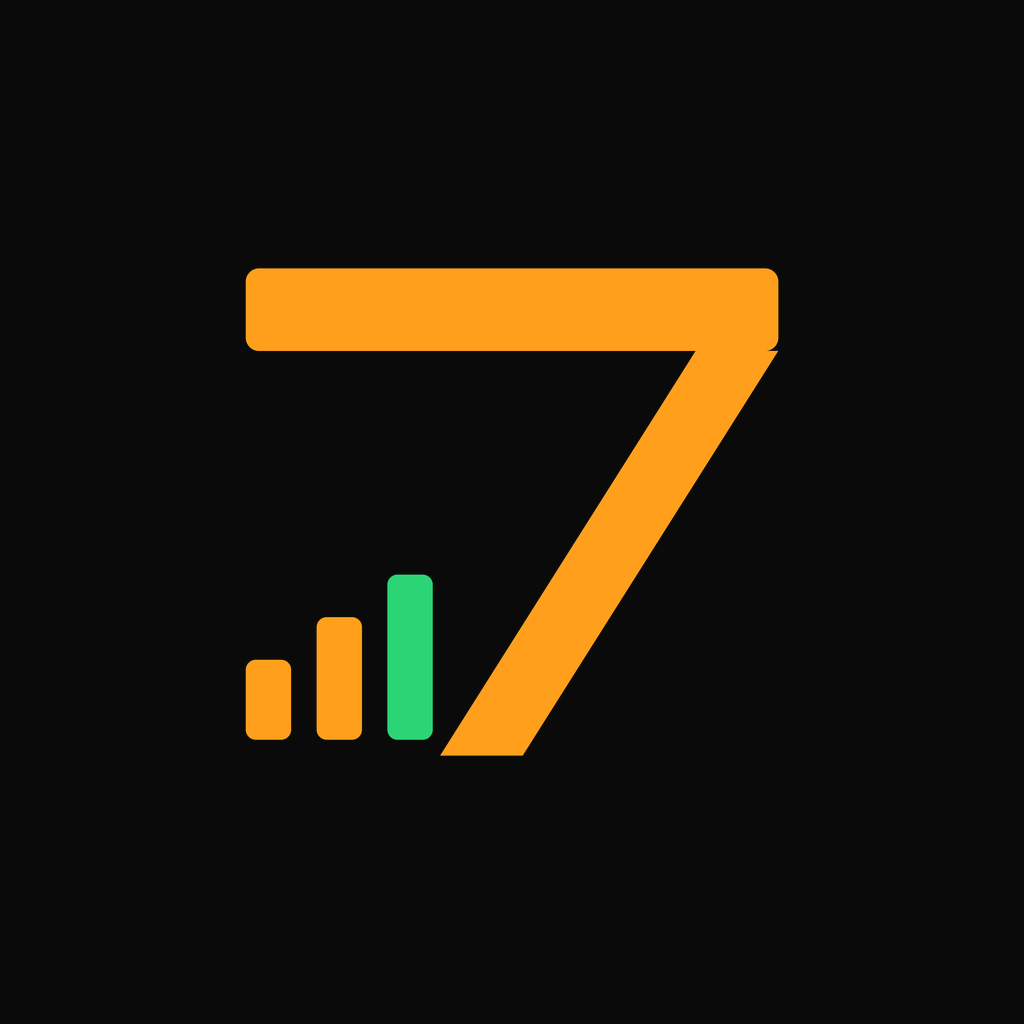
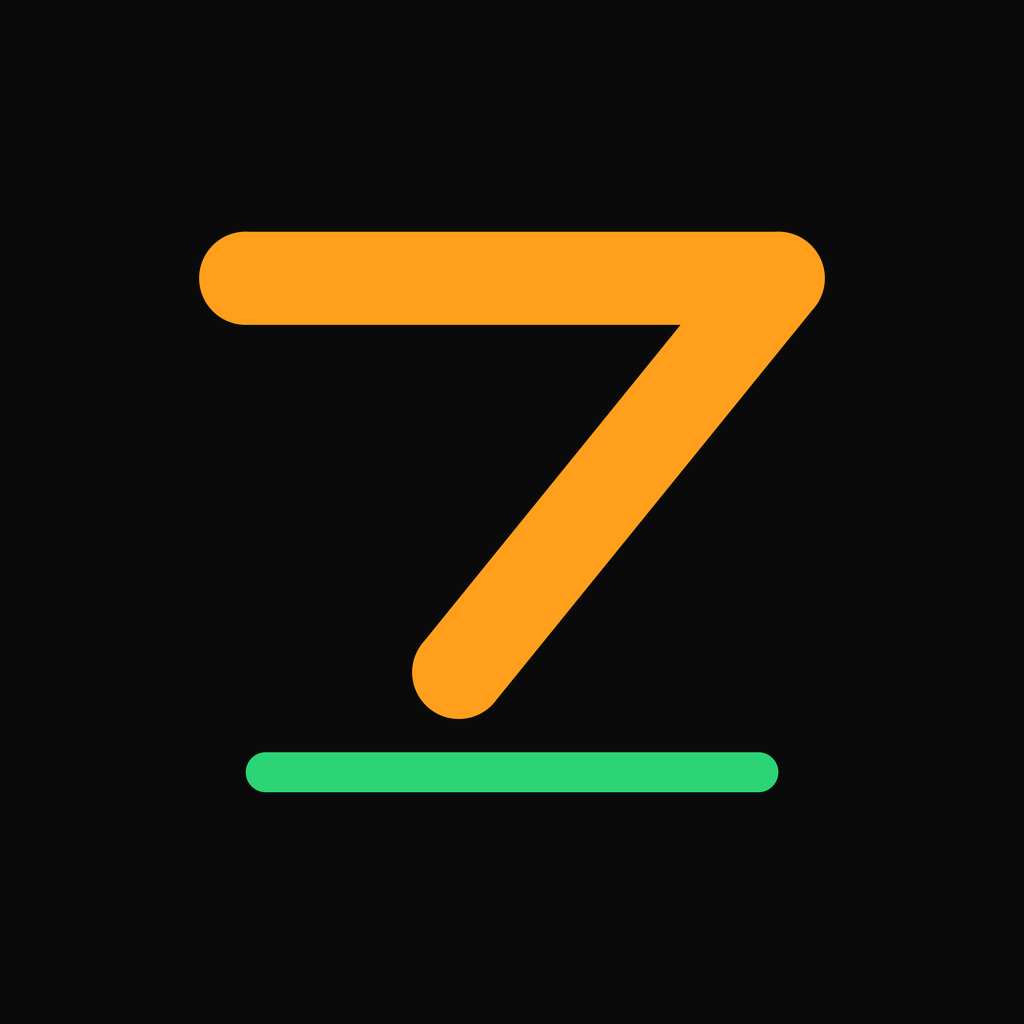
fix(sparkline): colour a cumulative curve against zero, not its first point
Reported: the hero showed a green net P&L, a win rate above 50% and a
positive expectancy, with a red sparkline underneath.

The colour came from 'last - first'. On a cumulative P&L curve the first
point is already the result of trade one, so a book whose best trade
came first reads as declining while its total is firmly positive:
+100, -10, +20, -15 gives the curve [100, 90, 110, 95] -- up 95 overall,
but -5 against its own first point.

Added an explicit 'baseline' prop and passed 0 at the three call sites
that plot cumulative P&L (dashboard hero, weekly review, playbook edge).
Metric's trend sparkline keeps the first-point default: a running win
rate climbing 40%->55% is an improvement, and zero means nothing there.

Also, two things you flagged:

- Settings said 'Unavailable in Expo Go - requires a development build'.
  That is our packaging problem described in our vocabulary. Replaced
  with what it means to you: reminders arrive in the next release.

- New app mark. Two earlier attempts both put a second picture beside
  the numeral; at launcher size the ascending bars stopped reading as
  bars and the icon looked like a wifi glyph next to a 7. This one adds
  nothing: the seven is one round-capped stroke, and the only other
  element is a green rule beneath it -- the axis it stands on, so the
  figure reads as a value on a chart. It never touches the glyph, so
  nothing can collide, and it still reads at 24px. SevenMark.tsx and
[…]

Changed region(s): [[0.1875, 0.2188, 0.8125, 0.7812], [0.7188, 0.375, 0.75, 0.4062]]

diff --git a/src/components/brand/SevenMark.tsx b/src/components/brand/SevenMark.tsx
@@ -24,9 +24,11 @@ interface SevenMarkProps {
  * colours, it needs a separate file per density, it blurs when a screen wants
  * it larger than it was exported, and it cannot be animated per-element.
  *
- * The shapes here are the same ones make_icons.py draws, expressed on a 100x100
- * viewBox: a heavy 7, and three rising bars sitting in the empty triangle the
- * numeral creates. Nothing overlaps, so the silhouette still reads at 16px.
+ * Same geometry as make_icons.py's draw_mark(), on a 100x100 viewBox: a heavy
+ * seven drawn as one round-capped stroke, standing on a green baseline. The
+ * rule is the axis the figure stands on, which is what makes the numeral read
+ * as a value on a chart instead of a digit with an ornament — and, unlike the
+ * ascending bars it replaces, it never collides with the glyph at small sizes.
  */
 export const SevenMark: React.FC<SevenMarkProps> = ({
   size = 40,
@@ -38,23 +40,20 @@ export const SevenMark: React.FC<SevenMarkProps> = ({
 }) => {
   const { theme } = useTheme();
   const ink = color ?? theme.colors.primary;
-  const tip = monochrome ? ink : (accent ?? theme.colors.green);
+  const rule = monochrome ? ink : (accent ?? theme.colors.green);
   const plateBg = plateColor ?? theme.colors.card;
 
-  // Geometry, in viewBox units. Mirrors draw_mark(): inset 0.22 of the box,
-  // stroke 0.155 of the inner width.
-  const m = 14;
-  const w = 72;
-  const stroke = w * 0.155;
-  const barY = m + w * 0.085;
-  const topX = m + w;
-  const botX = m + w * 0.52;
-  const botY = m + w;
+  // Geometry in viewBox units, mirroring draw_mark() at inset 0.22.
+  const m = 22;
+  const w = 100 - m * 2;
+  const stroke = w * 0.175;
 
-  const barW = w * 0.085;
-  const gap = w * 0.048;
-  const baseY = m + w * 0.97;
-  const heights = [w * 0.15, w * 0.23, w * 0.31];
+  const yTop = m + w * 0.04;
+  const xFoot = m + w * 0.4;
+  const yFoot = m + w * 0.78;
+
+  const baseH = w * 0.075;
+  const baseY = m + w * 0.93;
 
   return (
     <Svg width={size} height={size} viewBox="0 0 100 100">
@@ -68,32 +67,24 @@ export const SevenMark: React.FC<SevenMarkProps> = ({
       {plate ? <Rect x="0" y="0" width="100" height="100" rx="22" fill={plateBg} /> : null}
 
       <G>
-        {/* Top bar of the 7 */}
+        {/* The seven: one continuous stroke, round joins, no seams. */}
+        <Path
+          d={`M ${m} ${yTop} L ${m + w} ${yTop} L ${xFoot} ${yFoot}`}
+          stroke="url(#sevenInk)"
+          strokeWidth={stroke}
+          strokeLinecap="round"
+          strokeLinejoin="round"
+          fill="none"
+        />
+        {/* The baseline it stands on. */}
         <Rect
           x={m}
-          y={barY}
+          y={baseY}
           width={w}
-          height={stroke}
-          rx={stroke * 0.16}
-          fill="url(#sevenInk)"
+          height={baseH}
+          rx={baseH / 2}
+          fill={rule}
         />
-        {/* Diagonal leg, as a quad so its junction with the bar stays crisp */}
-        <Path
-          d={`M ${topX - stroke} ${barY + stroke} L ${topX} ${barY + stroke} L ${botX} ${botY} L ${botX - stroke} ${botY} Z`}
-          fill="url(#sevenInk)"
-        />
-        {/* Ascending bars — the journal's own subject, in the numeral's counter */}
-        {heights.map((h, i) => (
-          <Rect
-            key={i}
-            x={m + i * (barW + gap)}
-            y={baseY - h}
-            width={barW}
-            height={h}
-            rx={barW * 0.22}
-            fill={i === heights.length - 1 ? tip : ink}
-          />
-        ))}
       </G>
     </Svg>
   );

diff --git a/src/components/ui/__tests__/sparklineBaseline.test.ts b/src/components/ui/__tests__/sparklineBaseline.test.ts
@@ -1,0 +1,76 @@
+/**
+ * The rule the Sparkline uses to pick green or red.
+ *
+ * Reported bug: the dashboard hero showed a green net P&L, a win rate above
+ * 50% and a positive expectancy, yet its sparkline was red.
+ *
+ * Cause: the colour came from `last - first`. On a cumulative P&L curve the
+ * first point is already the result of trade one, so a book whose best trade
+ * came first reads as "declining" even while its total is firmly positive.
+ * A cumulative curve has to be judged against zero, not against itself.
+ */
+
+/** Mirrors the expression in Sparkline.tsx. */
+function sparklineNet(data: number[], baseline?: number): number {
+  return data.length ? data[data.length - 1] - (baseline ?? data[0]) : 0;
+}
+
+const isGreen = (data: number[], baseline?: number) => sparklineNet(data, baseline) >= 0;
+
+describe('sparkline colour — cumulative curves (baseline 0)', () => {
+  it('is green for the reported case: profitable book whose first trade was the biggest win', () => {
+    // Trades +100, -10, +20, -15 -> total +95, win rate 50%, expectancy
+    // +23.75/trade. The curve peaks at its first point and ends below it.
+    const equity = [100, 90, 110, 95];
+    expect(isGreen(equity)).toBe(false); // the bug
+    expect(isGreen(equity, 0)).toBe(true); // the fix
+  });
+
+  it('is green whenever the cumulative total is positive', () => {
+    expect(isGreen([50, 30, 130], 0)).toBe(true);
+    expect(isGreen([10], 0)).toBe(true);
+    expect(isGreen([200, 150, 20], 0)).toBe(true);
+  });
+
+  it('is red whenever the cumulative total is negative', () => {
+    expect(isGreen([-10, -50, -30], 0)).toBe(false);
+    expect(isGreen([100, 50, -20], 0)).toBe(false);
+  });
+
+  it('treats an exactly flat book as green rather than a loss', () => {
+    expect(isGreen([0], 0)).toBe(true);
+    expect(isGreen([50, -20, 0], 0)).toBe(true);
+  });
+
+  it('ignores the shape of the curve and only reads its end', () => {
+    // Deep drawdown mid-run, recovered: still a winning book.
+    expect(isGreen([100, -200, 40], 0)).toBe(true);
+    // Strong start given entirely back: still a losing book.
+    expect(isGreen([300, 100, -5], 0)).toBe(false);
+  });
+});
+
+describe('sparkline colour — level series keep the first-point default', () => {
+  it('reads a rising series as green', () => {
+    // A running win rate climbing 40% -> 55% is an improvement, even though
+    // both points are positive numbers. Zero would be meaningless here.
+    expect(isGreen([40, 48, 55])).toBe(true);
+  });
+
+  it('reads a falling series as red even when every value is positive', () => {
+    expect(isGreen([70, 62, 55])).toBe(false);
+  });
+});
+
+describe('sparkline colour — edge cases', () => {
+  it('is green for an empty series rather than alarming', () => {
+    expect(isGreen([], 0)).toBe(true);
+    expect(isGreen([])).toBe(true);
+  });
+
+  it('accepts a non-zero baseline, e.g. a starting balance', () => {
+    const balance = [10_200, 10_050, 10_400];
+    expect(isGreen(balance, 10_000)).toBe(true);
+    expect(isGreen(balance, 10_500)).toBe(false);
+  });
+});

diff --git a/src/components/ui/Sparkline.tsx b/src/components/ui/Sparkline.tsx
@@ -17,6 +17,19 @@ interface SparklineProps {
   height?: number;
   /** Colour override; defaults to green/red based on net direction. */
   color?: string;
+  /**
+   * Value the series is judged against when picking green or red.
+   *
+   * Defaults to the first data point, which is right for a series of levels
+   * (a balance, a running win rate): "up from where it started".
+   *
+   * It is WRONG for a cumulative P&L curve, whose first point is already the
+   * result of trade one. A book that won 100 then gave back 5 starts at 100
+   * and ends at 105 -- up 105 overall, but only +5 against its own first
+   * point, and outright red if trade one was the best of the run. Pass 0 for
+   * those so the colour matches the total the user is reading next to it.
+   */
+  baseline?: number;
   /** Fill the area under the line. */
   filled?: boolean;
   strokeWidth?: number;
@@ -34,13 +47,16 @@ export const Sparkline: React.FC<SparklineProps> = ({
   width = 72,
   height = 24,
   color,
+  baseline,
   filled = true,
   strokeWidth = 1.5,
 }) => {
   const { theme } = useTheme();
   const progress = useSharedValue(0);
 
-  const net = data.length ? data[data.length - 1] - data[0] : 0;
+  const net = data.length
+    ? data[data.length - 1] - (baseline ?? data[0])
+    : 0;
   const stroke = color ?? (net >= 0 ? theme.colors.green : theme.colors.red);
 
   const { linePath, areaPath, lastPoint, length } = useMemo(() => {

diff --git a/src/i18n/translations.ts b/src/i18n/translations.ts
@@ -672,7 +672,7 @@ export const translations = {
     settings: 'RÉGLAGES',
     notifications: 'Notifications',
     notificationsDesc: 'Rappels de journalisation et alertes de risque',
-    notificationsExpoGo: 'Indisponible dans Expo Go \u2014 n\u00e9cessite un development build',
+    notificationsExpoGo: 'Les rappels seront disponibles dans la prochaine version de l\u2019application',
     notificationsDenied: 'Permission refusée. Activez les notifications dans les réglages du système.',
     journalReminder: 'Rappel de journalisation',
     riskAlerts: 'Alertes de risque',
@@ -1529,7 +1529,7 @@ export const translations = {
     settings: 'SETTINGS',
     notifications: 'Notifications',
     notificationsDesc: 'Journaling reminders and risk alerts',
-    notificationsExpoGo: 'Unavailable in Expo Go \u2014 requires a development build',
+    notificationsExpoGo: 'Reminders will be available in the next release of the app',
     notificationsDenied: 'Permission denied. Enable notifications in system settings.',
     journalReminder: 'Journaling reminder',
     riskAlerts: 'Risk alerts',

diff --git a/src/screens/PlaybookScreen.tsx b/src/screens/PlaybookScreen.tsx
@@ -543,7 +543,7 @@ export const PlaybookScreen: React.FC = () => {
                             </Text>
                           </View>
                           {edge.equity.length >= 2 && (
-                            <Sparkline data={edge.equity} width={92} height={36} />
+                            <Sparkline data={edge.equity} baseline={0} width={92} height={36} />
                           )}
                         </View>
 

diff --git a/src/components/analytics/WeeklyReviewCard.tsx b/src/components/analytics/WeeklyReviewCard.tsx
@@ -77,7 +77,7 @@ export const WeeklyReviewCard: React.FC<{ trades: Trade[] }> = ({ trades }) => {
             <Text style={styles.deltaLabel}>{t('weeklyVsPrev')}</Text>
           </View>
         </View>
-        <Sparkline data={cumulative} width={86} height={34} />
+        <Sparkline data={cumulative} baseline={0} width={86} height={34} />
       </Animated.View>
 
       <Hairline style={{ marginVertical: theme.spacing.md }} />

diff --git a/src/screens/DashboardScreen.tsx b/src/screens/DashboardScreen.tsx
@@ -185,7 +185,7 @@ export const DashboardScreen: React.FC = () => {
             minimumFontScale={0.6}
           />
           {equitySeries.length > 1 ? (
-            <Sparkline data={equitySeries} width={80} height={32} />
+            <Sparkline data={equitySeries} baseline={0} width={80} height={32} />
           ) : null}
         </View>
 

diff --git a/tools/make_icons.py b/tools/make_icons.py
@@ -26,20 +26,25 @@ ASSETS = os.path.join(ROOT, "assets")
 SRC_ASSETS = os.path.join(ROOT, "src", "assets")
 
 
-def draw_mark(size, fg=AMBER, accent=None, bg=None, inset=0.22):
+def draw_mark(size, fg=AMBER, accent=None, bg=None, inset=0.22, baseline=True):
     """
-    The mark: a bold '7' with an ascending step motif in its counter.
+    The mark: a bold '7' standing on a chart baseline.
 
-    The previous version speared a candlestick straight through the horizontal
-    bar of the 7. At icon scale that reads as two shapes colliding -- a
-    misalignment rather than a symbol -- and the thin wick vanished entirely
-    below ~48px, leaving an orange smudge on the numeral.
+    Two earlier attempts failed for the same reason -- they put a second
+    picture next to the numeral and hoped the two would read as one symbol.
+    First a candlestick speared through the horizontal bar. Then three
+    ascending bars in the counter, which at launcher size stopped reading as
+    bars at all and turned the icon into "a wifi glyph next to a 7".
 
-    This one keeps the shapes separate and legible: a heavy seven, and beneath
-    its diagonal three rising bars that sit in the empty triangle the numeral
-    already creates. Nothing overlaps, the negative space does the work, and
-    the silhouette survives being shrunk to a favicon or flattened to a
-    single-colour themed icon.
+    This version stops adding objects. The numeral is drawn as one continuous
+    stroke with round joins, heavy enough to hold the whole plate, and the only
+    other element is a green rule beneath it. That rule is not decoration: it
+    is the axis the figure stands on, so the seven becomes a value on a chart
+    rather than a digit with an ornament. It also never touches the glyph, so
+    there is nothing to collide at any size.
+
+    Drawn amber-on-dark or dark-on-amber depending on `fg`/`bg`; the silhouette
+    is identical either way, which is what the Android monochrome slot needs.
     """
     S = size * SS
     img = Image.new("RGBA", (S, S), bg if bg else (0, 0, 0, 0))
@@ -50,45 +55,31 @@ def draw_mark(size, fg=AMBER, accent=None, bg=None, inset=0.22):
 
     m = S * inset
     w = S - 2 * m
-    stroke = int(w * 0.155)
+    stroke = int(w * 0.175)
+    r = stroke / 2
 
-    # Top bar of the 7.
-    bar_y = m + w * 0.085
-    d.rounded_rectangle(
-        [m, bar_y, m + w, bar_y + stroke],
-        radius=stroke * 0.16,
-        fill=fg,
-    )
+    # Geometry in fractions of the inner box. The foot stops short of the
+    # bottom to leave the baseline its own air.
+    x0, x1 = m, m + w
+    y_top = m + w * 0.04
+    x_foot = m + w * 0.40
+    y_foot = m + w * 0.78
 
-    # Diagonal leg, as a filled quad so the corner with the bar stays crisp.
-    top_x = m + w
-    bot_x = m + w * 0.52
-    bot_y = m + w
-    d.polygon(
-        [
-            (top_x - stroke, bar_y + stroke),
-            (top_x, bar_y + stroke),
-            (bot_x, bot_y),
-            (bot_x - stroke, bot_y),
-        ],
-        fill=fg,
-    )
+    def dot(x, y):
+        d.ellipse([x - r, y - r, x + r, y + r], fill=fg)
 
-    # Ascending bars in the counter of the 7 -- the journal's own subject.
-    # Sized and placed to clear the diagonal with real breathing room, so the
-    # mark never looks like two overlapping glyphs.
-    bar_w = w * 0.085
-    gap = w * 0.048
-    base_y = m + w * 0.97
-    heights = [w * 0.15, w * 0.23, w * 0.31]
-    x = m + w * 0.0
-    for i, h in enumerate(heights):
-        d.rounded_rectangle(
-            [x, base_y - h, x + bar_w, base_y],
-            radius=bar_w * 0.22,
-            fill=accent if i == len(heights) - 1 else fg,
-        )
-        x += bar_w + gap
+    # Top bar and diagonal, as round-capped strokes: one gesture, no seams.
+    d.line([(x0, y_top), (x1, y_top)], fill=fg, width=stroke)
+    d.line([(x1, y_top), (x_foot, y_foot)], fill=fg, width=stroke, joint="curve")
+    dot(x0, y_top)
+    dot(x1, y_top)
+    dot(x_foot, y_foot)
+
+    # The baseline the numeral stands on.
+    if baseline:
+        bh = w * 0.075
+        by = m + w * 0.93
+        d.rounded_rectangle([x0, by, x1, by + bh], radius=bh / 2, fill=accent)
 
     # Optically centre on the drawn ink rather than the nominal box.
     bbox = img.getbbox()
